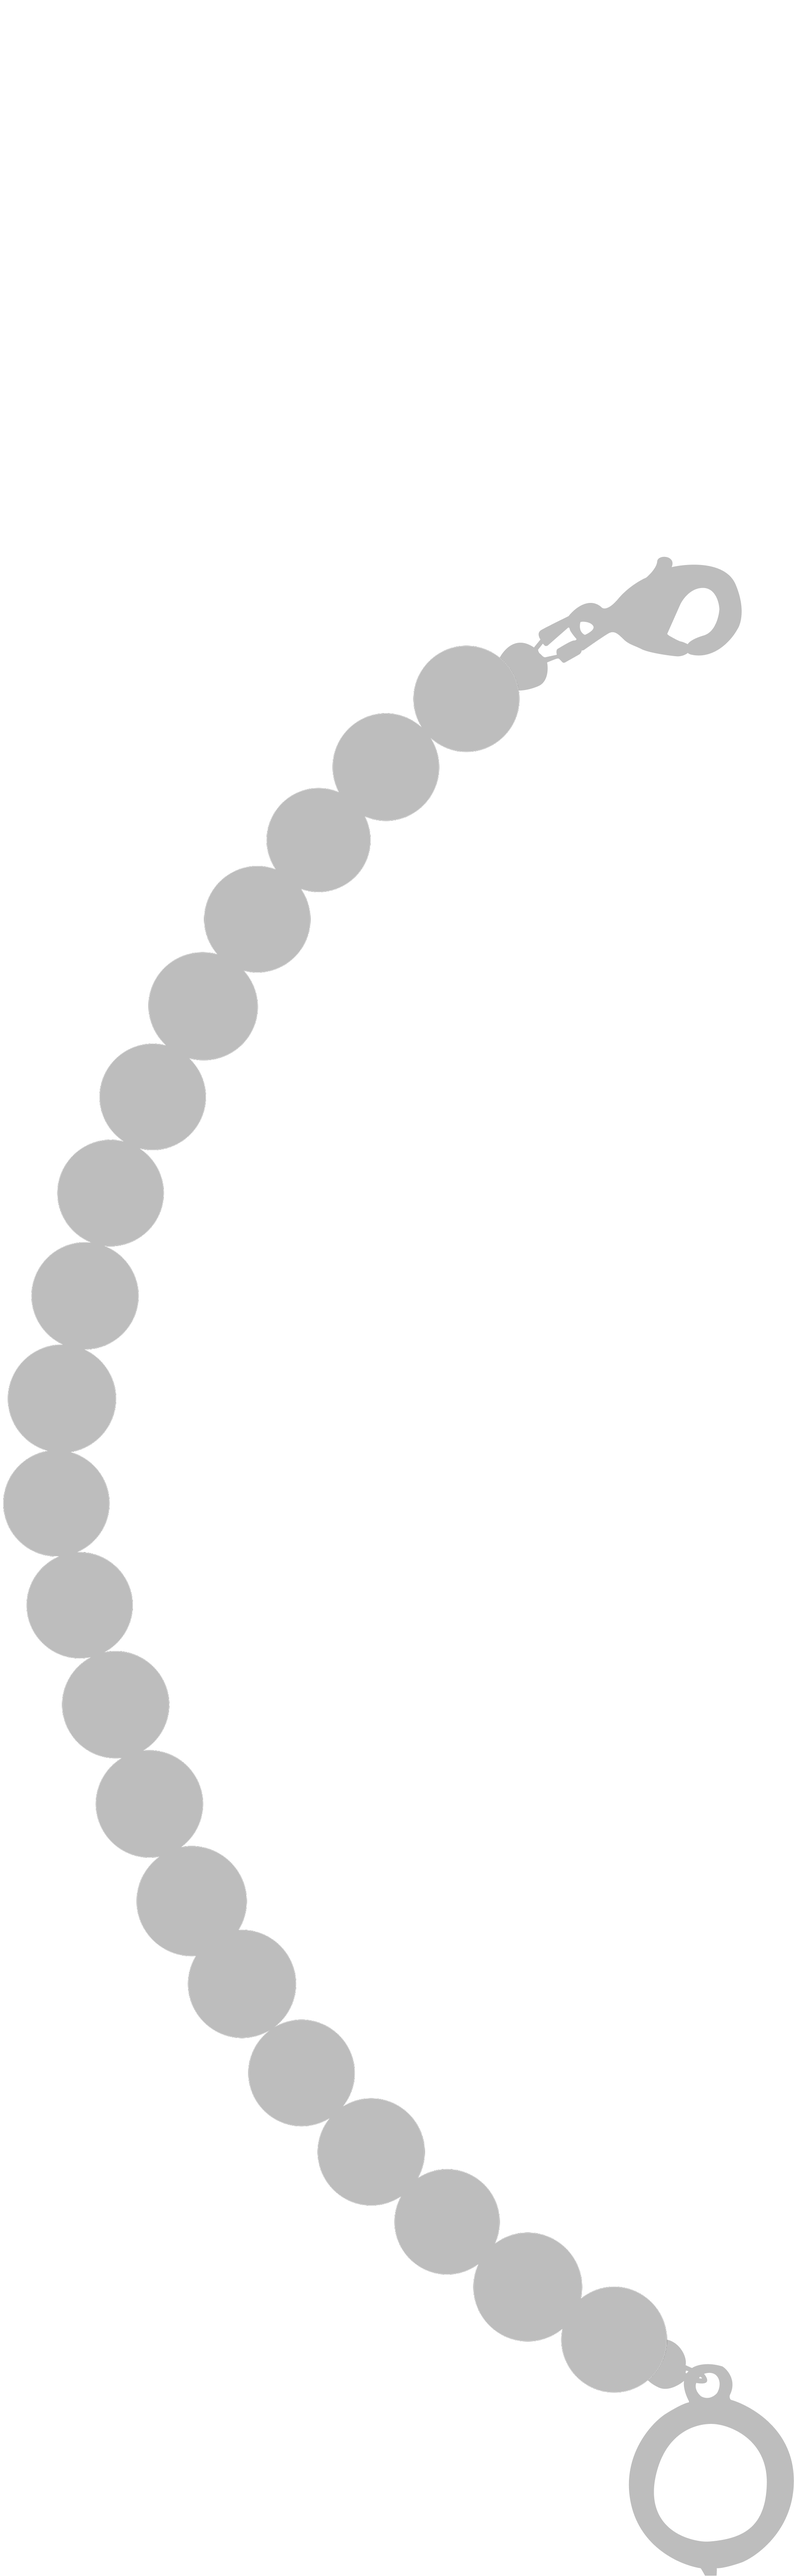
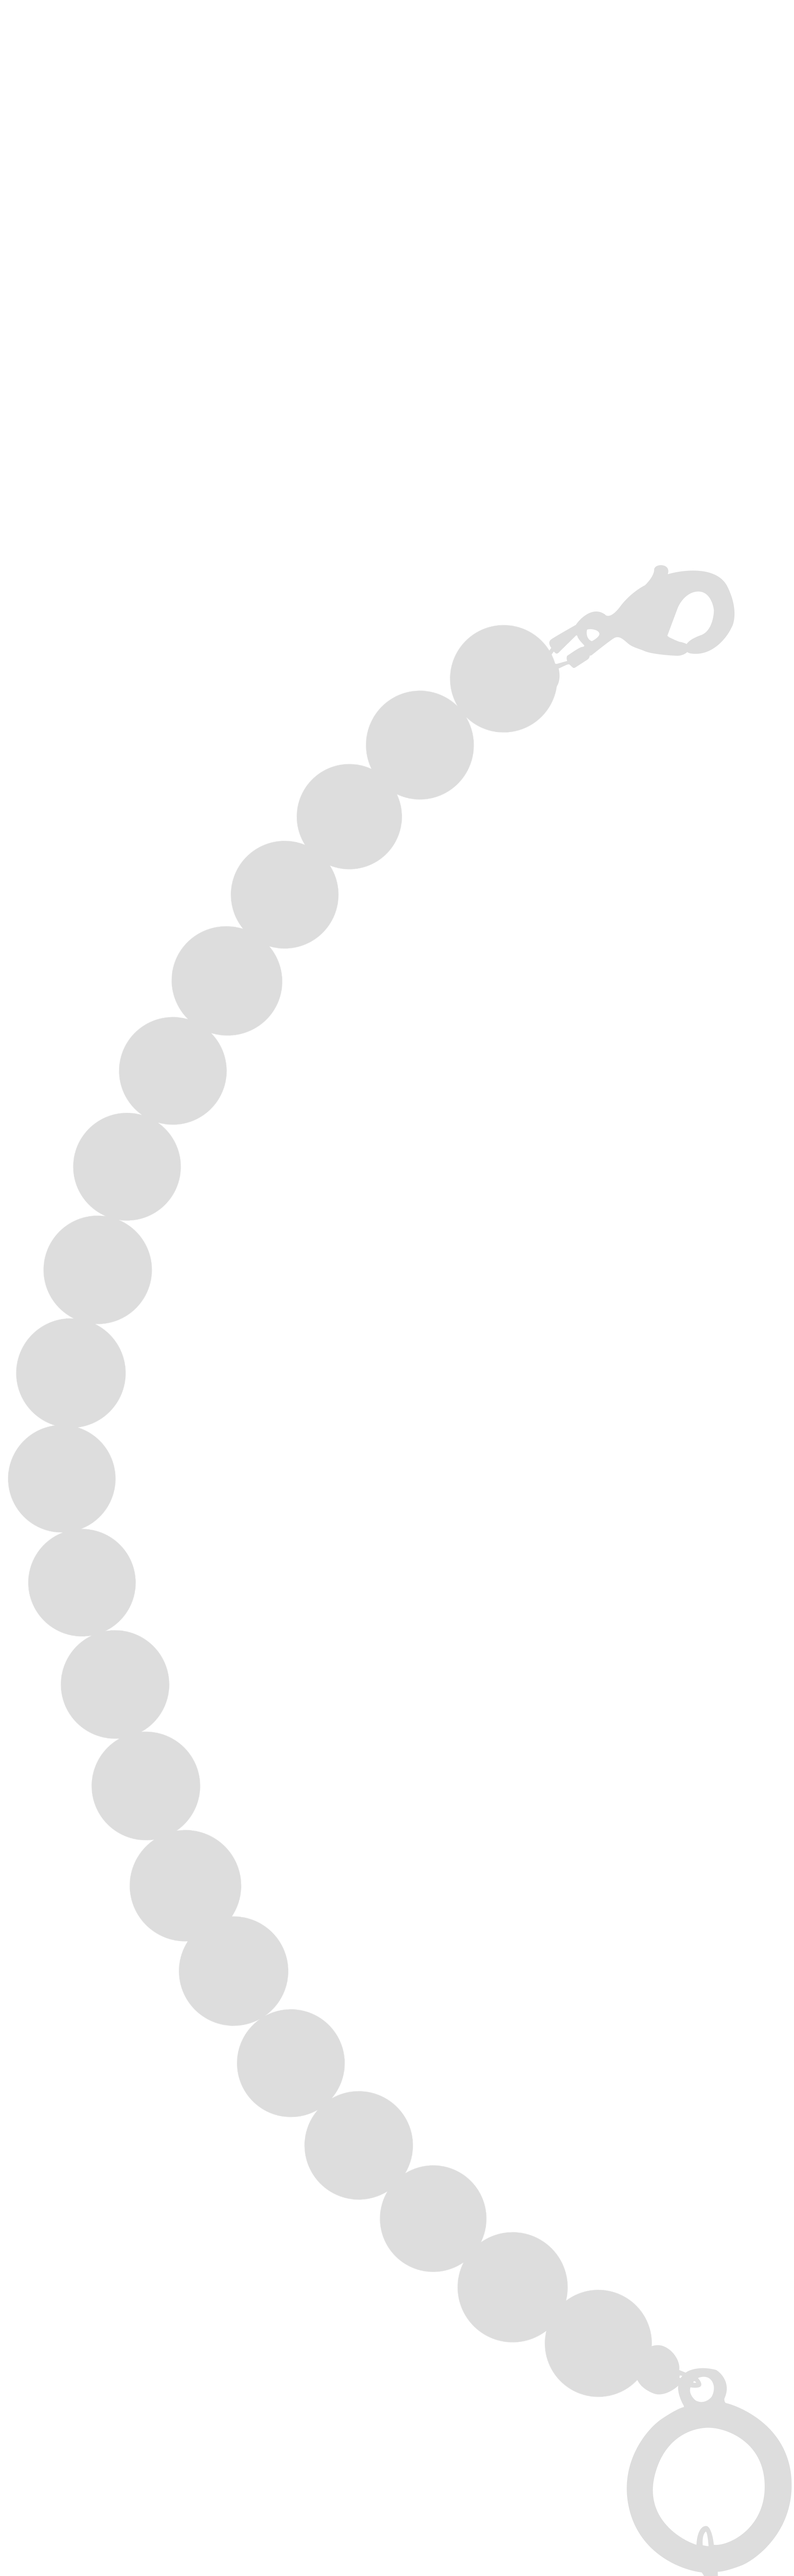
fix(storefront): remove drop-shadow classes from image components for cleaner appearance
Updated the BuilderEditor component by removing drop-shadow classes from various image elements to enhance visual clarity. Adjusted image container sizes for better layout consistency across the storefront.

Changed region(s): [[0.0, 0.2183, 1.0, 1.0]]

diff --git a/src/components/storefront/builder-editor.tsx b/src/components/storefront/builder-editor.tsx
@@ -103,7 +103,7 @@ function PendantPreviewLayer({
           src={src}
           alt=""
           fill
-          className="object-contain object-bottom drop-shadow-sm"
+          className="object-contain object-bottom"
           sizes="23px"
           unoptimized={src.endsWith(".svg")}
           loaderClassName="scale-[0.55]"
@@ -148,7 +148,7 @@ function CombinationPreviewMini({
                   src={leftSrc}
                   alt=""
                   fill
-                  className="object-contain object-right drop-shadow-sm"
+                  className="object-contain object-right"
                   sizes="(max-width: 640px) 128px, 160px"
                   unoptimized={leftSrc.endsWith(".svg")}
                 />
@@ -169,7 +169,7 @@ function CombinationPreviewMini({
                   src={rightSrc}
                   alt=""
                   fill
-                  className="object-contain object-left drop-shadow-sm"
+                  className="object-contain object-left"
                   sizes="(max-width: 640px) 128px, 160px"
                   unoptimized={rightSrc.endsWith(".svg")}
                 />
@@ -179,7 +179,7 @@ function CombinationPreviewMini({
         </div>
         <div className="relative z-10 flex w-full shrink-0 justify-center translate-x-[var(--preview-pendant-nudge-x)]">
           <div
-            className="relative w-[16%] max-w-[28px] shrink-0 sm:max-w-[32px]"
+            className="relative w-[8.5%] max-w-[16px] shrink-0 sm:max-w-[18px]"
             style={{
               aspectRatio: `${BUILDER_PREVIEW_INTRINSIC.PENDANT.width} / ${BUILDER_PREVIEW_INTRINSIC.PENDANT.height}`,
             }}
@@ -545,7 +545,7 @@ export function BuilderEditor({
   return (
     <div className="pt-10 space-y-8">
 
-      <div className="flex flex-wrap items-center justify-between gap-3 border-b border-border pb-4">
+      <div className="flex flex-wrap items-center justify-between gap-3 border-b border-border pb-4 !mb-0">
         <div>
           <p className="text-sm text-muted-foreground">Ціна</p>
           <p className="text-lg font-medium">{formatPrice(totalPrice)}</p>
@@ -595,7 +595,7 @@ export function BuilderEditor({
                           src={src}
                           alt=""
                           fill
-                          className="object-contain object-right drop-shadow-sm"
+                          className="object-contain object-right"
                           sizes="(max-width: 640px) 260px, 280px"
                           unoptimized={src.endsWith(".svg")}
                         />
@@ -634,7 +634,7 @@ export function BuilderEditor({
                           src={src}
                           alt=""
                           fill
-                          className="object-contain object-left drop-shadow-sm"
+                          className="object-contain object-left"
                           sizes="(max-width: 640px) 260px, 280px"
                           unoptimized={src.endsWith(".svg")}
                         />
